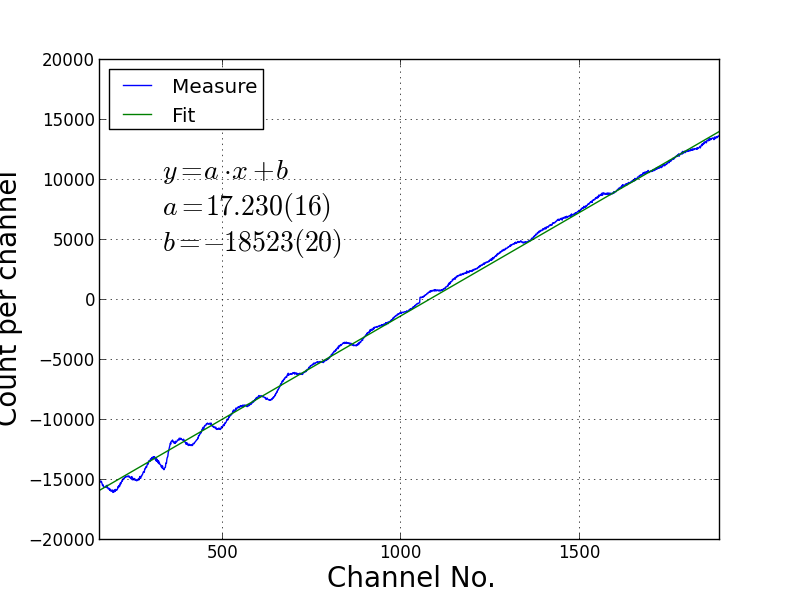
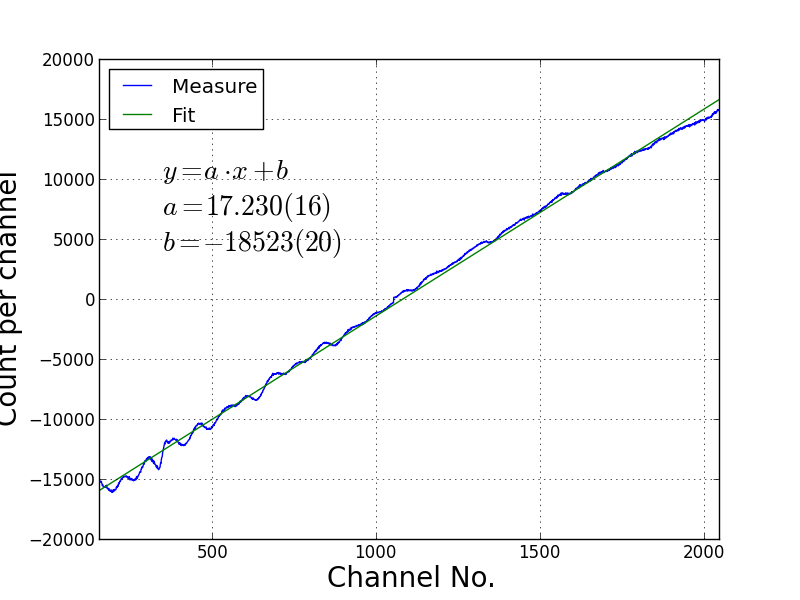
[mossbauer] find peak

diff --git a/mossbauer/find_peak.py b/mossbauer/find_peak.py
@@ -1,0 +1,108 @@
+#!/usr/bin/env python
+
+import jlab
+from pylab import *
+
+calib_res = jlab.load_pyfile('pos_cal_1/res_v.py')
+
+def smooth_diff(data, w):
+    l = len(data)
+    krnl_x = r_[-l:l]
+    krnl = krnl_x * exp(-(krnl_x / w)**2) / w**2.5
+    krnl2 = krnl**2
+    f_krnl = fft(krnl)
+    f_krnl2 = fft(krnl2)
+    l_data = zeros(l * 2)
+    l_data[:l] = data
+    fl_data = fft(fftshift(l_data))
+    return (real(ifft(f_krnl * fl_data)[:l]),
+            sqrt(abs(ifft(f_krnl2 * fl_data)[:l])))
+
+def find_start(it):
+    i, (previous, s) = next(it)
+    for i, (v, s) in it:
+        if v < previous:
+            return
+        previous = v
+
+def find_drop(it, thresh_area, thresh_height):
+    start_i, (start_v, s) = next(it)
+    min_max = start_v + s
+    i = start_i
+    v = start_v
+    for i, (v, s) in it:
+        if v - s > min_max:
+            break
+        new_min = v + s
+        if min_max > new_min:
+            min_max = new_min
+    d_v = start_v - v
+    if d_v > thresh_height and (i - start_i) * d_v > thresh_area:
+        return start_i, i
+    return None, None
+
+def find_next(it, thresh_area, thresh_height):
+    find_start(it)
+    return find_drop(it, thresh_area, thresh_height)
+
+class FindRes(object):
+    __slots__ = ['a', 's', 'thresh_area', 'thresh_height']
+    def __init__(self, a, s, thresh_area, thresh_height):
+        self.a = a
+        self.s = s
+        self.thresh_area = thresh_area
+        self.thresh_height = thresh_height
+    def __iter__(self):
+        it = enumerate(zip(self.a, self.s))
+        return FindIter(it, self.thresh_area, self.thresh_height)
+
+class FindIter(object):
+    __slots__ = ['it', 'thresh_area', 'thresh_height']
+    def __init__(self, it, thresh_area, thresh_height):
+        self.it = it
+        self.thresh_area = thresh_area
+        self.thresh_height = thresh_height
+    def __next__(self):
+        return find_next(self.it, self.thresh_area, self.thresh_height)
+
+def find_width(index, data, hint=None, w=30):
+    a, s = smooth_diff(data, w)
+    _w = w * 3
+    a = a[_w:-_w]
+    s = s[_w:-_w]
+    index = index[_w:-_w]
+    data = data[_w:-_w]
+    max_a = max(a)
+    min_a = min(a)
+    thresh_height = (max_a - min_a) / 4 + max(s)
+    thresh_area = w * (max_a - min_a) / 2
+    res = [(start, end) for start, end in
+           FindRes(a, s, thresh_area, thresh_height) if start is not None]
+    return jlab.Ret('a', 's', 'index', 'data', peaks=res)
+
+def find_peak(iname, fig_name):
+    index, data = array([(d[0], d[2]) for d in
+                         jlab.load_pyfile(iname).data[calib_res.start:]]).T
+    try:
+        hint = jlab.load_pyfile(iname[:-3] + '_hint.py')
+    except:
+        hint = None
+    # filter_data = _filter_data(data)
+    # filter_data = _filter_data(data, filter_data)
+    # plot(index, [not v for v in filter_data] * data)
+    # plot(index, data)
+    res = find_width(index, data, hint, 30)
+    for s, e in res.peaks:
+        plot(res.index[[s, e]], res.a[[s, e]], 'g-o')
+    errorbar(res.index, res.a, res.s)
+    xlim(res.index[0], res.index[-1])
+    figure()
+    plot(res.index, res.data)
+    xlim(res.index[0], res.index[-1])
+    show()
+
+if __name__ == '__main__':
+    import sys
+    iname, oname, fig_name = sys.argv[1:]
+    res = find_peak(iname, fig_name)
+    print(res)

diff --git a/mossbauer/calib.py b/mossbauer/calib.py
@@ -32,7 +32,7 @@ def calib(iname, fig_name):
     plot(index, data, label="Measure")
     plot(index, fit.yfit, label="Fit")
     legend(loc=2)
-    xlim(index[0], len(data))
+    xlim(index[0], index[-1])
     xmin, xmax = xlim()
     ymin, ymax = ylim()
     b, a = jlab.a_pm_s(fit)

diff --git a/mossbauer/pos_cal_1/res_v.py b/mossbauer/pos_cal_1/res_v.py
@@ -1,4 +1,4 @@
 cov = [[431.34490738135474, -0.31431864123495173], [-0.31431864123495173, 0.00028535509871534427]]
 s = [20.768844632799262, 0.016892456858472193]
-a = [-18523.307674095904, 17.23030439914697]
 start = 156
+a = [-18523.307674095904, 17.23030439914697]
